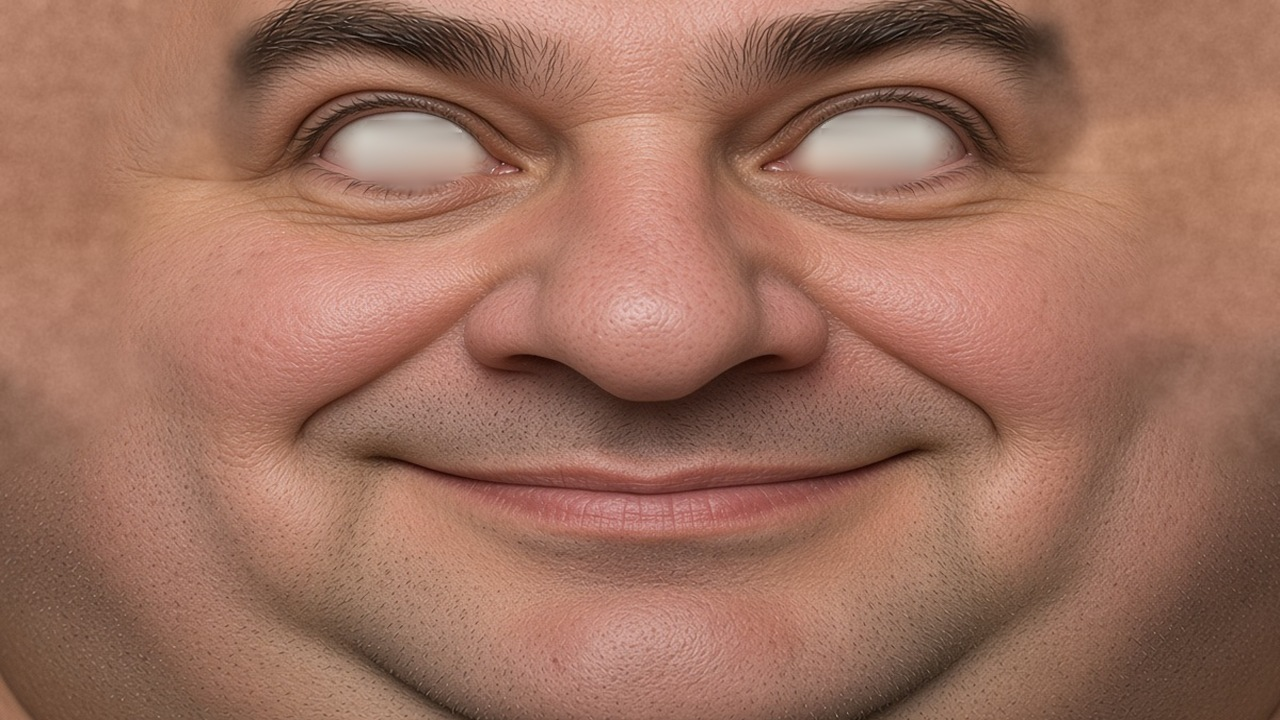
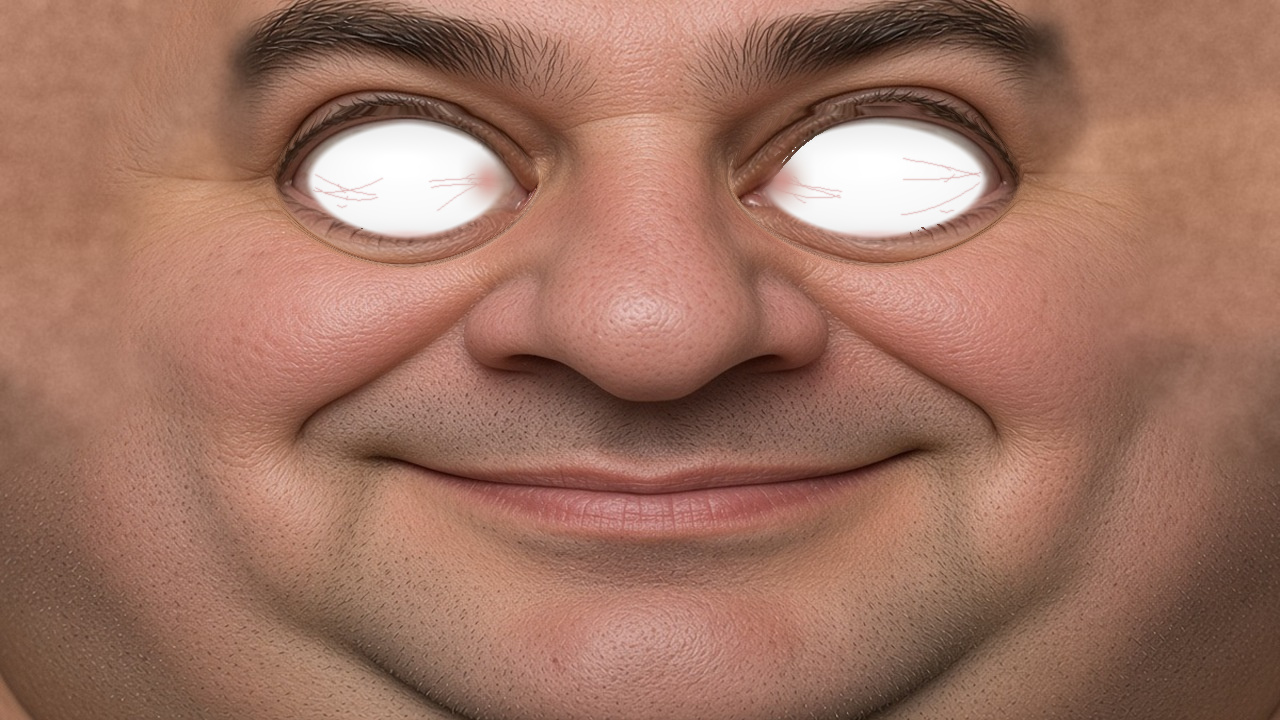
Widen the talking face's eyes and show the heard transcript.
The eye sockets are larger and more bulging, with white sclera and faint red veins. Gaze, blink, and the mouth still use the same drawing path. The phone panel shows what the microphone transcribed and keeps only the newest 100 words.

Changed region(s): [[0.5625, 0.1528, 0.8125, 0.3667], [0.1875, 0.1528, 0.4375, 0.3972]]

diff --git a/panel.html b/panel.html
@@ -40,8 +40,30 @@
   #say { min-width: 96px; background: #1f4f8a; }
   #hear { width: 100%; background: #3a3458; }
   #note { min-height: 1.3em; color: #c5d0e0; margin: 8px 0; }
-  #heard { margin: 0; padding-left: 18px; }
-  #heard li { margin: 4px 0; }
+  #transcript {
+    margin: 12px 0;
+    background: #1b2330;
+    border-radius: 14px;
+    padding: 12px 14px 14px;
+  }
+  #transcript h2 {
+    margin: 0 0 6px;
+    font-size: 15px;
+    letter-spacing: 0.06em;
+    text-transform: uppercase;
+    color: #9eb0c8;
+  }
+  #heard {
+    margin: 0;
+    min-height: 4.4em;
+    max-height: 9.5em;
+    overflow: auto;
+    font-size: 22px;
+    line-height: 1.35;
+    white-space: pre-wrap;
+    word-break: break-word;
+  }
+  #heard.empty { color: #8b98ab; }
 </style>
 </head>
 <body>
@@ -51,6 +73,10 @@
     <button type="button" id="control">CONTROL</button>
   </div>
   <img id="view" alt="Camera" width="320" height="240">
+  <section id="transcript">
+    <h2>Heard</h2>
+    <div id="heard" class="empty">Nothing heard yet.</div>
+  </section>
   <div class="pad" id="pad">
     <button type="button" class="drive wide" data-dir="forward">Forward</button>
     <button type="button" class="drive" data-dir="left">Left</button>
@@ -64,7 +90,6 @@
   </form>
   <button type="button" id="hear">Hear microphone</button>
   <p id="note">Automate: wheels stay off. Control: hold a direction to drive.</p>
-  <ol id="heard"></ol>
 <script>
 const note = document.getElementById("note");
 const view = document.getElementById("view");
@@ -159,7 +184,7 @@ function stopHear() {
 
 async function playMic() {
   if (mode !== "control") {
-    note.textContent = "Switch to Control to hear the jack mic. Automate keeps it for conversation; lines it understood are listed below.";
+    note.textContent = "Switch to Control to hear the jack mic. Automate keeps it for conversation. Heard shows the latest words the microphone understood.";
     return;
   }
   if (hearing) { stopHear(); return; }
@@ -212,13 +237,10 @@ setInterval(async () => {
       mode = data.mode;
       paint();
     }
-    const list = document.getElementById("heard");
-    list.innerHTML = "";
-    (data.heard || []).forEach((line) => {
-      const item = document.createElement("li");
-      item.textContent = line;
-      list.appendChild(item);
-    });
+    const heard = document.getElementById("heard");
+    const lines = (data.heard || []).filter((line) => String(line).trim());
+    heard.textContent = lines.length ? lines.join("\n") : "Nothing heard yet.";
+    heard.classList.toggle("empty", lines.length === 0);
   } catch (err) { /* the next poll retries */ }
 }, 1000);
 paint();

diff --git a/test_robot_behavior.py b/test_robot_behavior.py
@@ -106,6 +106,9 @@ class FacePanelTests(unittest.TestCase):
             self.assertLess(x1, 800)
             self.assertGreater(y0, 0)
             self.assertLess(y1, 480)
+            # Wider and taller than the old sockets (158x85 and 179x90).
+            self.assertGreaterEqual(box[2] - box[0], 200)
+            self.assertGreaterEqual(box[3] - box[1], 115)
         mouth = info["layers"]["talk_open"]
         mx0, my0 = face.map_art(mouth[0], mouth[1], 800, 480)
         mx1, my1 = face.map_art(mouth[2], mouth[3], 800, 480)
@@ -471,10 +474,29 @@ class PanelTests(unittest.TestCase):
         rb.remember_heard("can you hear me")
         self.assertIn("can you hear me", rb.panel_status()["heard"])
 
+    def test_heard_transcript_keeps_the_newest_hundred_words(self):
+        rb.state["heard_lines"] = []
+        rb.remember_heard("   ")
+        self.assertEqual(rb.panel_status()["heard"], [])
+        rb.remember_heard("can you hear me")
+        rb.remember_heard(" ".join("w{0}".format(i) for i in range(80)))
+        rb.remember_heard(" ".join("n{0}".format(i) for i in range(40)))
+        words = " ".join(rb.panel_status()["heard"]).split()
+        self.assertEqual(len(words), rb.HEARD_WORD_LIMIT)
+        self.assertEqual(words[0], "w20")
+        self.assertEqual(words[-40:], ["n{0}".format(i) for i in range(40)])
+        self.assertNotIn("can", words)
+        rb.state["heard_lines"] = []
+        rb.remember_heard(" ".join("z{0}".format(i) for i in range(150)))
+        words = " ".join(rb.panel_status()["heard"]).split()
+        self.assertEqual(words, ["z{0}".format(i) for i in range(50, 150)])
+
     def test_page_has_controls_and_no_secrets(self):
         page = panel.load_page()
-        for label in ("AUTOMATE", "CONTROL", "Forward", "Back", "Left", "Right", "Say", "Hear microphone"):
+        for label in ("AUTOMATE", "CONTROL", "Forward", "Back", "Left", "Right", "Say", "Hear microphone", "Heard"):
             self.assertIn(label, page)
+        self.assertIn('id="heard"', page)
+        self.assertNotIn("<ol id=\"heard\">", page)
         lowered = page.lower()
         self.assertNotIn("robot.env", lowered)
         self.assertNotIn("xai", lowered)

diff --git a/robot_brain.py b/robot_brain.py
@@ -338,10 +338,44 @@ def say_typed(text, speaker=None):
     return cleaned
 
 
+# The phone panel shows this transcript. Keep the newest words only.
+HEARD_WORD_LIMIT = 100
+
+
+def trim_heard_words(lines, limit=HEARD_WORD_LIMIT):
+    """Drop the oldest words so the transcript stays within limit words.
+
+    Lines stay in order. The oldest line is shortened from the front when
+    only part of it still fits. Blank lines are removed.
+    """
+    chunks = []
+    for line in lines or []:
+        words = str(line).split()
+        if words:
+            chunks.append(words)
+    total = sum(len(words) for words in chunks)
+    if total > limit:
+        overflow = total - limit
+        kept = []
+        for words in chunks:
+            if overflow <= 0:
+                kept.append(words)
+            elif overflow >= len(words):
+                overflow -= len(words)
+            else:
+                kept.append(words[overflow:])
+                overflow = 0
+        chunks = kept
+    return [" ".join(words) for words in chunks]
+
+
 def remember_heard(text):
-    lines = state.setdefault("heard_lines", [])
-    lines.append(str(text))
-    del lines[:-12]
+    words = str(text).split()
+    if not words:
+        return
+    lines = list(state.get("heard_lines") or [])
+    lines.append(" ".join(words))
+    state["heard_lines"] = trim_heard_words(lines, HEARD_WORD_LIMIT)
 
 
 def panel_status():
